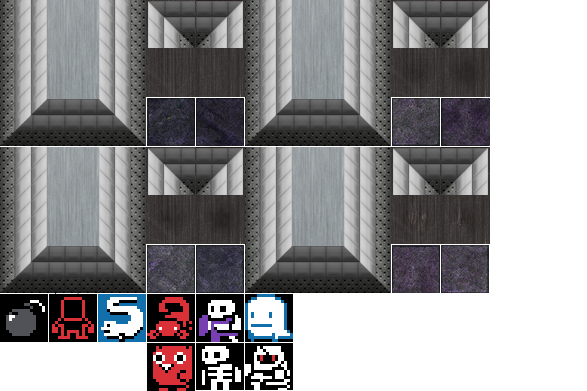
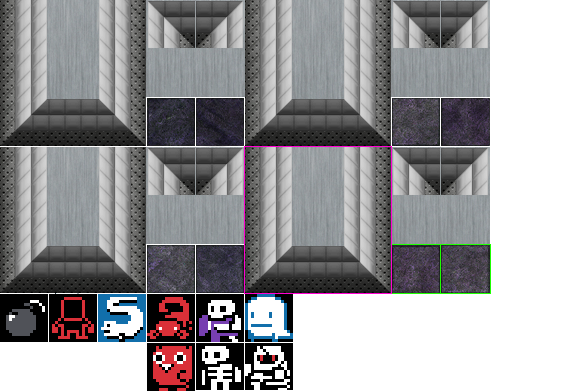
Added floor tiles
This effectively covers all old sprite animations.

diff --git a/PattyPetitGiant/PattyPetitGiant/PattyPetitGiant/TileMap.cs b/PattyPetitGiant/PattyPetitGiant/PattyPetitGiant/TileMap.cs
@@ -441,7 +441,7 @@ namespace PattyPetitGiant
                             break;
                         case TileType.WallUnidentified:
                         default:
-                            spriteBatch.Draw(tileSkin, new Rectangle((int)(i * tileSize.X), (int)(j * tileSize.Y), (int)(GlobalGameConstants.TileSize.X), (int)(GlobalGameConstants.TileSize.Y)), new Rectangle((int)(1 * GlobalGameConstants.TileSize.X + 1), (int)(6 * GlobalGameConstants.TileSize.Y + 6), (int)(GlobalGameConstants.TileSize.X), (int)(GlobalGameConstants.TileSize.Y)), Color.White);
+                            spriteBatch.Draw(tileSkin, new Rectangle((int)(i * tileSize.X) , (int)(j * tileSize.Y), (int)(GlobalGameConstants.TileSize.X), (int)(GlobalGameConstants.TileSize.Y)), new Rectangle((int)(1 * GlobalGameConstants.TileSize.X + 1), (int)(6 * GlobalGameConstants.TileSize.Y + 6), (int)(GlobalGameConstants.TileSize.X), (int)(GlobalGameConstants.TileSize.Y)), Color.White);
                             break;
                     }
                 }
@@ -453,7 +453,6 @@ namespace PattyPetitGiant
             int focusTileX = (int)(parent.CameraFocus.CenterPoint.X / GlobalGameConstants.TileSize.X);
             int focusTileY = (int)(parent.CameraFocus.CenterPoint.Y / GlobalGameConstants.TileSize.Y);
 
-            /*
             for (int j = Math.Max(0, focusTileY - 16); j < Math.Min(size.y, focusTileY + 16); j++)
             {
                 for (int i = Math.Max(0, focusTileX - 27); i < Math.Min(size.x, focusTileX + 27); i++)
@@ -466,32 +465,32 @@ namespace PattyPetitGiant
                     switch (floorMap[i, j])
                     {
                         case FloorType.A:
-                            sb.DrawSpriteToSpineVertexArray(tileSkin, new Rectangle((int)(3 * GlobalGameConstants.TileSize.X + 3), (int)(2 * GlobalGameConstants.TileSize.Y + 2), (int)(GlobalGameConstants.TileSize.X), (int)(GlobalGameConstants.TileSize.Y)), new Vector2((int)(i * tileSize.X), (int)(j * tileSize.Y)), Color.White, 0.0f, new Vector2(1));
+                            sb.DrawSpriteToSpineVertexArray(tileSkin, new Rectangle((int)(3 * GlobalGameConstants.TileSize.X + 3), (int)(2 * GlobalGameConstants.TileSize.Y + 3), (int)(GlobalGameConstants.TileSize.X), (int)(GlobalGameConstants.TileSize.Y)), new Vector2((int)(i * tileSize.X), (int)(j * tileSize.Y)), Color.White, 0.0f, new Vector2(1));
                             break;
                         case FloorType.B:
-                            spriteBatch.Draw(tileSkin, new Rectangle((int)(i * tileSize.X), (int)(j * tileSize.Y), (int)(GlobalGameConstants.TileSize.X), (int)(GlobalGameConstants.TileSize.Y)), new Rectangle((int)(4 * GlobalGameConstants.TileSize.X + 4), (int)(2 * GlobalGameConstants.TileSize.Y + 2), (int)(GlobalGameConstants.TileSize.X), (int)(GlobalGameConstants.TileSize.Y)), Color.White);
+                            sb.DrawSpriteToSpineVertexArray(tileSkin, new Rectangle((int)(4 * GlobalGameConstants.TileSize.X + 4), (int)(2 * GlobalGameConstants.TileSize.Y + 3), (int)(GlobalGameConstants.TileSize.X), (int)(GlobalGameConstants.TileSize.Y)), new Vector2((int)(i * tileSize.X), (int)(j * tileSize.Y)), Color.White, 0.0f, new Vector2(1));
                             break;
                         case FloorType.C:
-                            spriteBatch.Draw(tileSkin, new Rectangle((int)(i * tileSize.X), (int)(j * tileSize.Y), (int)(GlobalGameConstants.TileSize.X), (int)(GlobalGameConstants.TileSize.Y)), new Rectangle((int)(8 * GlobalGameConstants.TileSize.X + 8), (int)(2 * GlobalGameConstants.TileSize.Y + 2), (int)(GlobalGameConstants.TileSize.X), (int)(GlobalGameConstants.TileSize.Y)), Color.White);
+                            sb.DrawSpriteToSpineVertexArray(tileSkin, new Rectangle((int)(8 * GlobalGameConstants.TileSize.X + 8), (int)(2 * GlobalGameConstants.TileSize.Y + 3), (int)(GlobalGameConstants.TileSize.X), (int)(GlobalGameConstants.TileSize.Y)), new Vector2((int)(i * tileSize.X), (int)(j * tileSize.Y)), Color.White, 0.0f, new Vector2(1));
                             break;
                         case FloorType.D:
-                            spriteBatch.Draw(tileSkin, new Rectangle((int)(i * tileSize.X), (int)(j * tileSize.Y), (int)(GlobalGameConstants.TileSize.X), (int)(GlobalGameConstants.TileSize.Y)), new Rectangle((int)(9 * GlobalGameConstants.TileSize.X + 9), (int)(2 * GlobalGameConstants.TileSize.Y + 2), (int)(GlobalGameConstants.TileSize.X), (int)(GlobalGameConstants.TileSize.Y)), Color.White);
+                            sb.DrawSpriteToSpineVertexArray(tileSkin, new Rectangle((int)(9 * GlobalGameConstants.TileSize.X + 9), (int)(2 * GlobalGameConstants.TileSize.Y + 3), (int)(GlobalGameConstants.TileSize.X), (int)(GlobalGameConstants.TileSize.Y)), new Vector2((int)(i * tileSize.X), (int)(j * tileSize.Y)), Color.White, 0.0f, new Vector2(1));
                             break;
                         case FloorType.E:
-                            spriteBatch.Draw(tileSkin, new Rectangle((int)(i * tileSize.X), (int)(j * tileSize.Y), (int)(GlobalGameConstants.TileSize.X), (int)(GlobalGameConstants.TileSize.Y)), new Rectangle((int)(3 * GlobalGameConstants.TileSize.X + 3), (int)(5 * GlobalGameConstants.TileSize.Y + 5), (int)(GlobalGameConstants.TileSize.X), (int)(GlobalGameConstants.TileSize.Y)), Color.White);
+                            sb.DrawSpriteToSpineVertexArray(tileSkin, new Rectangle((int)(3 * GlobalGameConstants.TileSize.X + 3), (int)(5 * GlobalGameConstants.TileSize.Y + 6), (int)(GlobalGameConstants.TileSize.X), (int)(GlobalGameConstants.TileSize.Y)), new Vector2((int)(i * tileSize.X), (int)(j * tileSize.Y)), Color.White, 0.0f, new Vector2(1));
                             break;
                         case FloorType.F:
-                            spriteBatch.Draw(tileSkin, new Rectangle((int)(i * tileSize.X), (int)(j * tileSize.Y), (int)(GlobalGameConstants.TileSize.X), (int)(GlobalGameConstants.TileSize.Y)), new Rectangle((int)(4 * GlobalGameConstants.TileSize.X + 4), (int)(5 * GlobalGameConstants.TileSize.Y + 5), (int)(GlobalGameConstants.TileSize.X), (int)(GlobalGameConstants.TileSize.Y)), Color.White);
+                            sb.DrawSpriteToSpineVertexArray(tileSkin, new Rectangle((int)(4 * GlobalGameConstants.TileSize.X + 4), (int)(5 * GlobalGameConstants.TileSize.Y + 6), (int)(GlobalGameConstants.TileSize.X), (int)(GlobalGameConstants.TileSize.Y)), new Vector2((int)(i * tileSize.X), (int)(j * tileSize.Y)), Color.White, 0.0f, new Vector2(1));
                             break;
                         case FloorType.G:
-                            spriteBatch.Draw(tileSkin, new Rectangle((int)(i * tileSize.X), (int)(j * tileSize.Y), (int)(GlobalGameConstants.TileSize.X), (int)(GlobalGameConstants.TileSize.Y)), new Rectangle((int)(8 * GlobalGameConstants.TileSize.X + 8), (int)(5 * GlobalGameConstants.TileSize.Y + 5), (int)(GlobalGameConstants.TileSize.X), (int)(GlobalGameConstants.TileSize.Y)), Color.White);
+                            sb.DrawSpriteToSpineVertexArray(tileSkin, new Rectangle((int)(8 * GlobalGameConstants.TileSize.X + 9), (int)(5 * GlobalGameConstants.TileSize.Y + 6), (int)(GlobalGameConstants.TileSize.X) - 1, (int)(GlobalGameConstants.TileSize.Y)), new Vector2((int)(i * tileSize.X), (int)(j * tileSize.Y)), Color.White, 0.0f, new Vector2(1));
                             break;
                         case FloorType.H:
-                            spriteBatch.Draw(tileSkin, new Rectangle((int)(i * tileSize.X), (int)(j * tileSize.Y), (int)(GlobalGameConstants.TileSize.X), (int)(GlobalGameConstants.TileSize.Y)), new Rectangle((int)(9 * GlobalGameConstants.TileSize.X + 9), (int)(5 * GlobalGameConstants.TileSize.Y + 5), (int)(GlobalGameConstants.TileSize.X), (int)(GlobalGameConstants.TileSize.Y)), Color.White);
+                            sb.DrawSpriteToSpineVertexArray(tileSkin, new Rectangle((int)(9 * GlobalGameConstants.TileSize.X + 10), (int)(5 * GlobalGameConstants.TileSize.Y + 6), (int)(GlobalGameConstants.TileSize.X), (int)(GlobalGameConstants.TileSize.Y)), new Vector2((int)(i * tileSize.X), (int)(j * tileSize.Y)), Color.White, 0.0f, new Vector2(1));
                             break;
                     }
                 }
-            } */
+            }
 
             for (int j = Math.Max(0, focusTileY - 16); j < Math.Min(size.y, focusTileY + 16); j++)
             {
@@ -505,6 +504,8 @@ namespace PattyPetitGiant
                         case TileType.NoWall:
                             break;
                         case TileType.TestWall:
+                            sb.DrawSpriteToSpineVertexArray(tileSkin, new Rectangle((int)(1 * GlobalGameConstants.TileSize.X + 1), (int)(6 * GlobalGameConstants.TileSize.Y + 6), (int)(GlobalGameConstants.TileSize.X), (int)(GlobalGameConstants.TileSize.Y)), new Vector2((int)(i * tileSize.X), (int)(j * tileSize.Y)), Color.White, 0.0f, new Vector2(1));
+                            break;
                         case TileType.WallA:
                         case TileType.WallB:
                         case TileType.WallC:
@@ -535,7 +536,7 @@ namespace PattyPetitGiant
                             break;
                         case TileType.WallUnidentified:
                         default:
-                            //spriteBatch.Draw(tileSkin, new Rectangle((int)(i * tileSize.X), (int)(j * tileSize.Y), (int)(GlobalGameConstants.TileSize.X), (int)(GlobalGameConstants.TileSize.Y)), new Rectangle((int)(1 * GlobalGameConstants.TileSize.X + 1), (int)(6 * GlobalGameConstants.TileSize.Y + 6), (int)(GlobalGameConstants.TileSize.X), (int)(GlobalGameConstants.TileSize.Y)), Color.White);
+                            sb.DrawSpriteToSpineVertexArray(tileSkin, new Rectangle((int)(1 * GlobalGameConstants.TileSize.X + 1), (int)(6 * GlobalGameConstants.TileSize.Y + 6), (int)(GlobalGameConstants.TileSize.X), (int)(GlobalGameConstants.TileSize.Y)), new Vector2((int)(i * tileSize.X), (int)(j * tileSize.Y)), Color.White, 0.0f, new Vector2(1));    
                             break;
                     }
                 }
